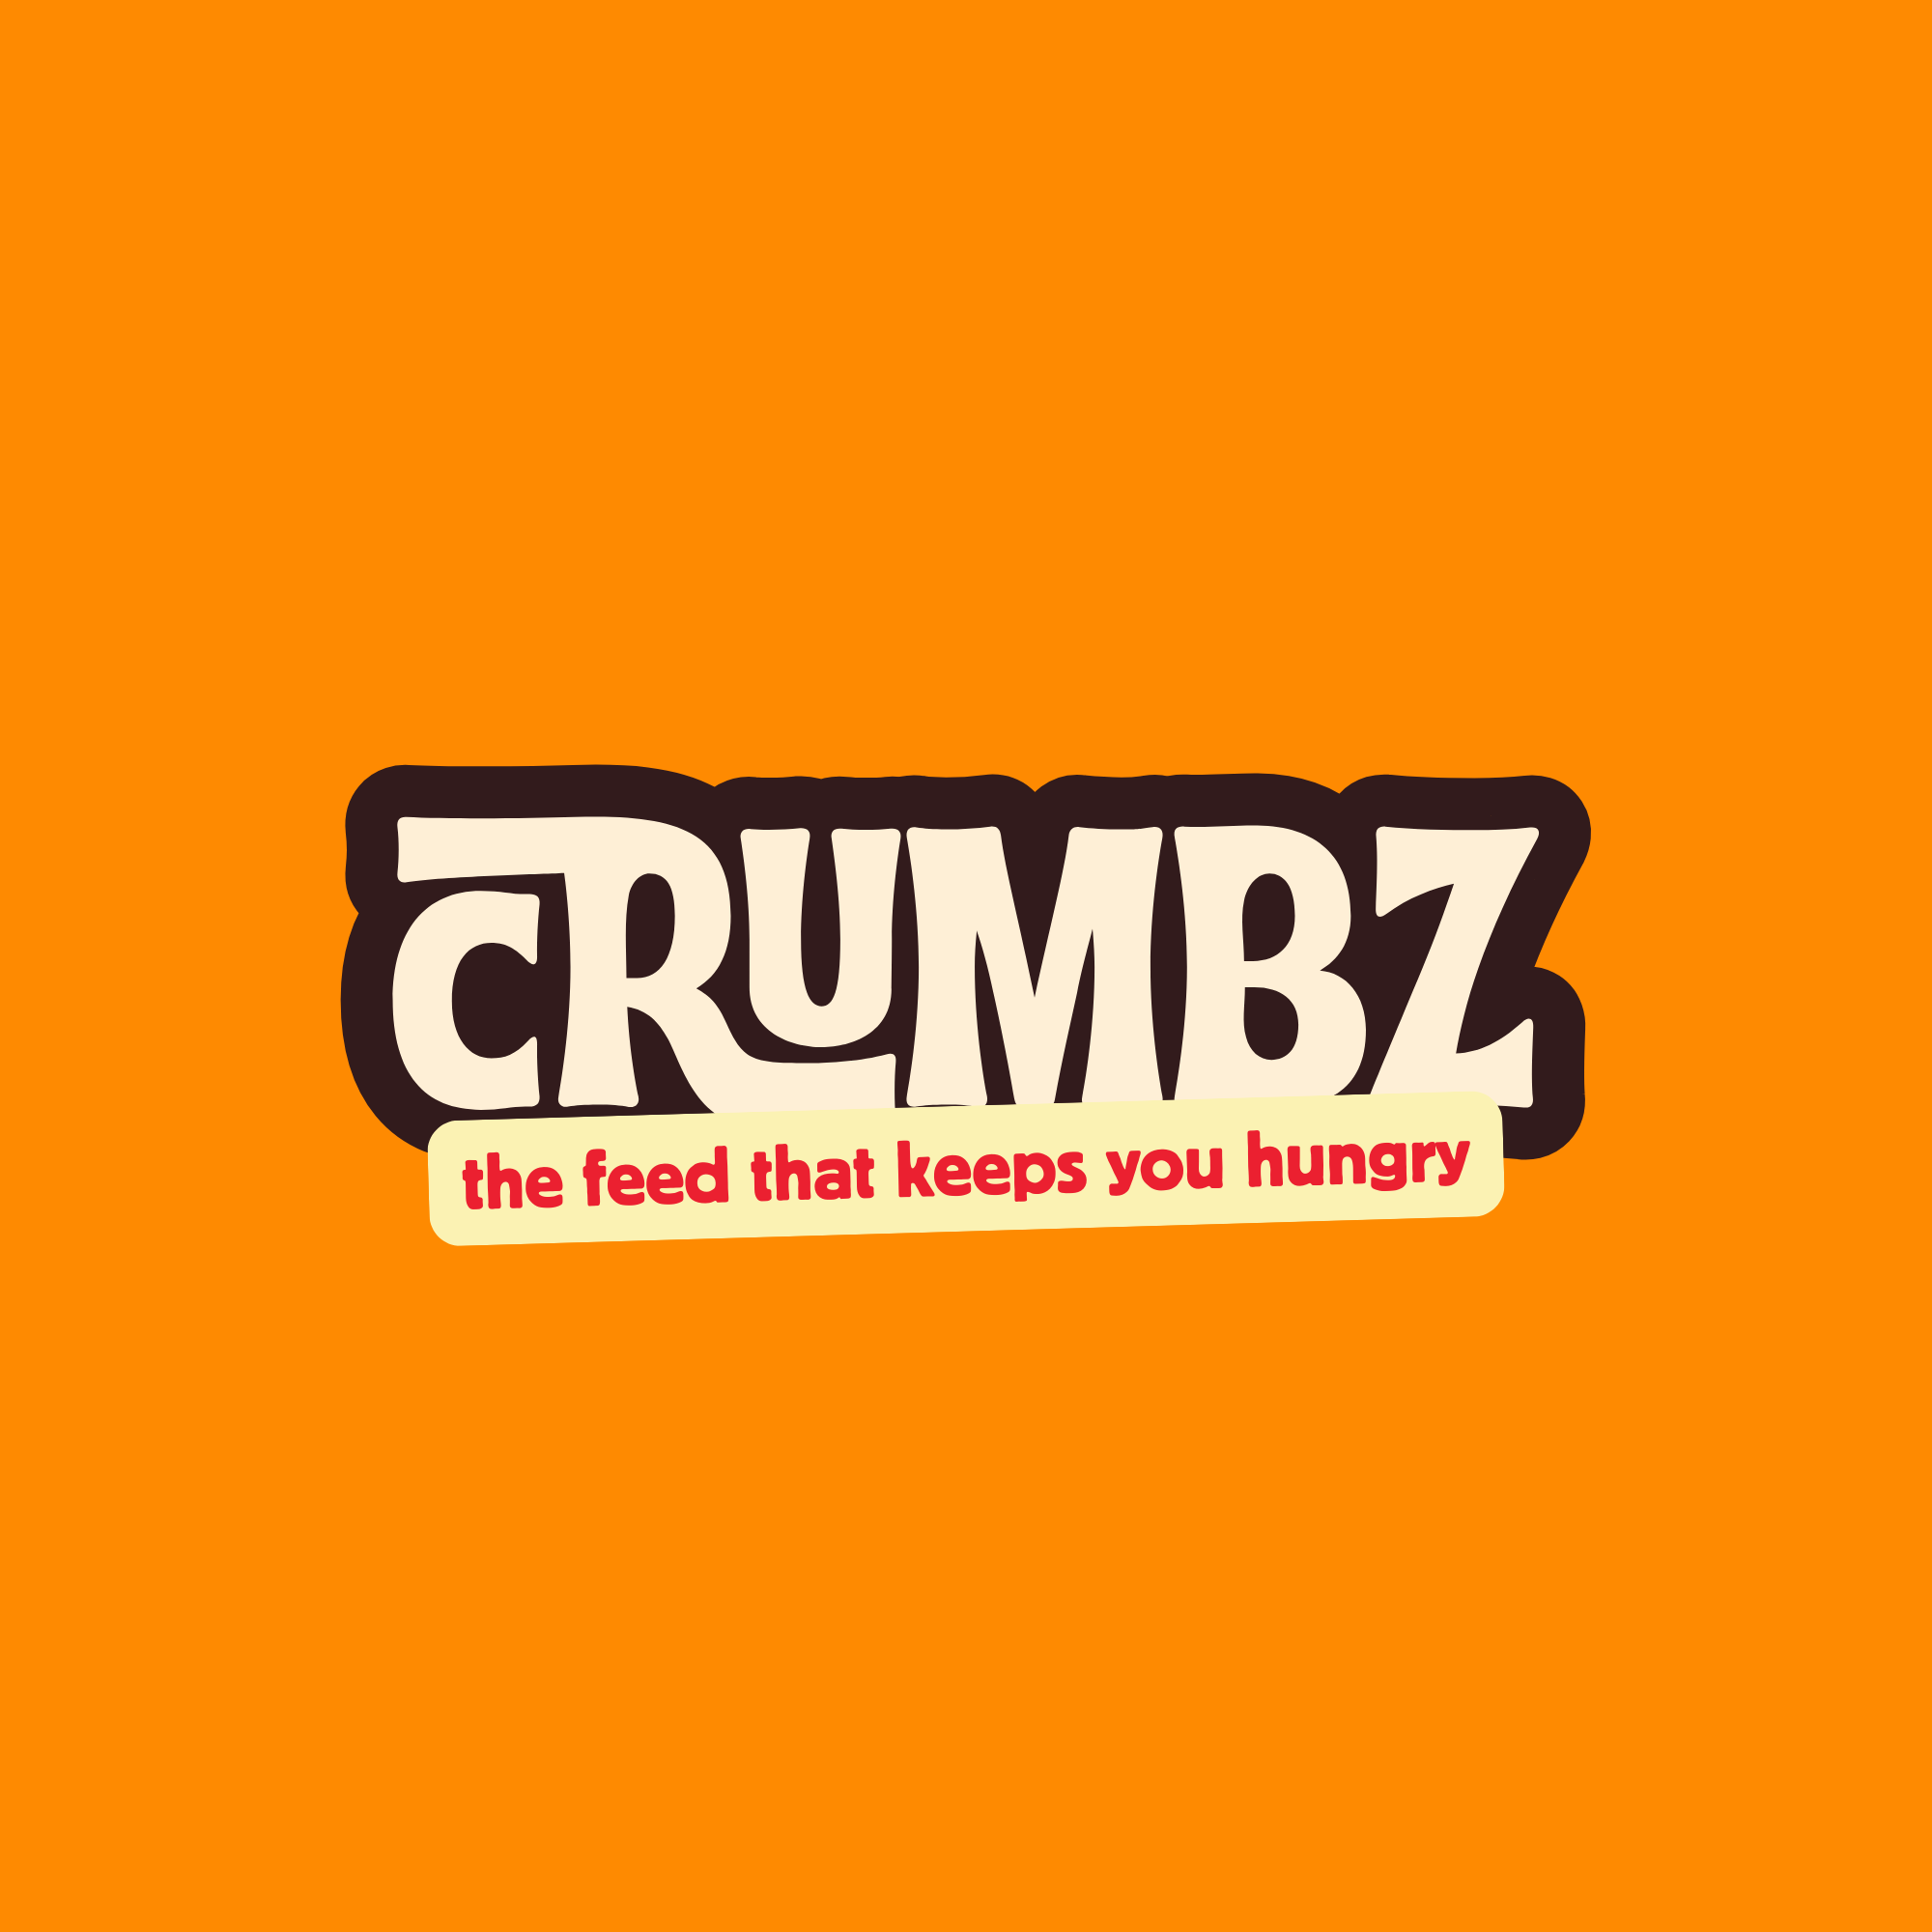
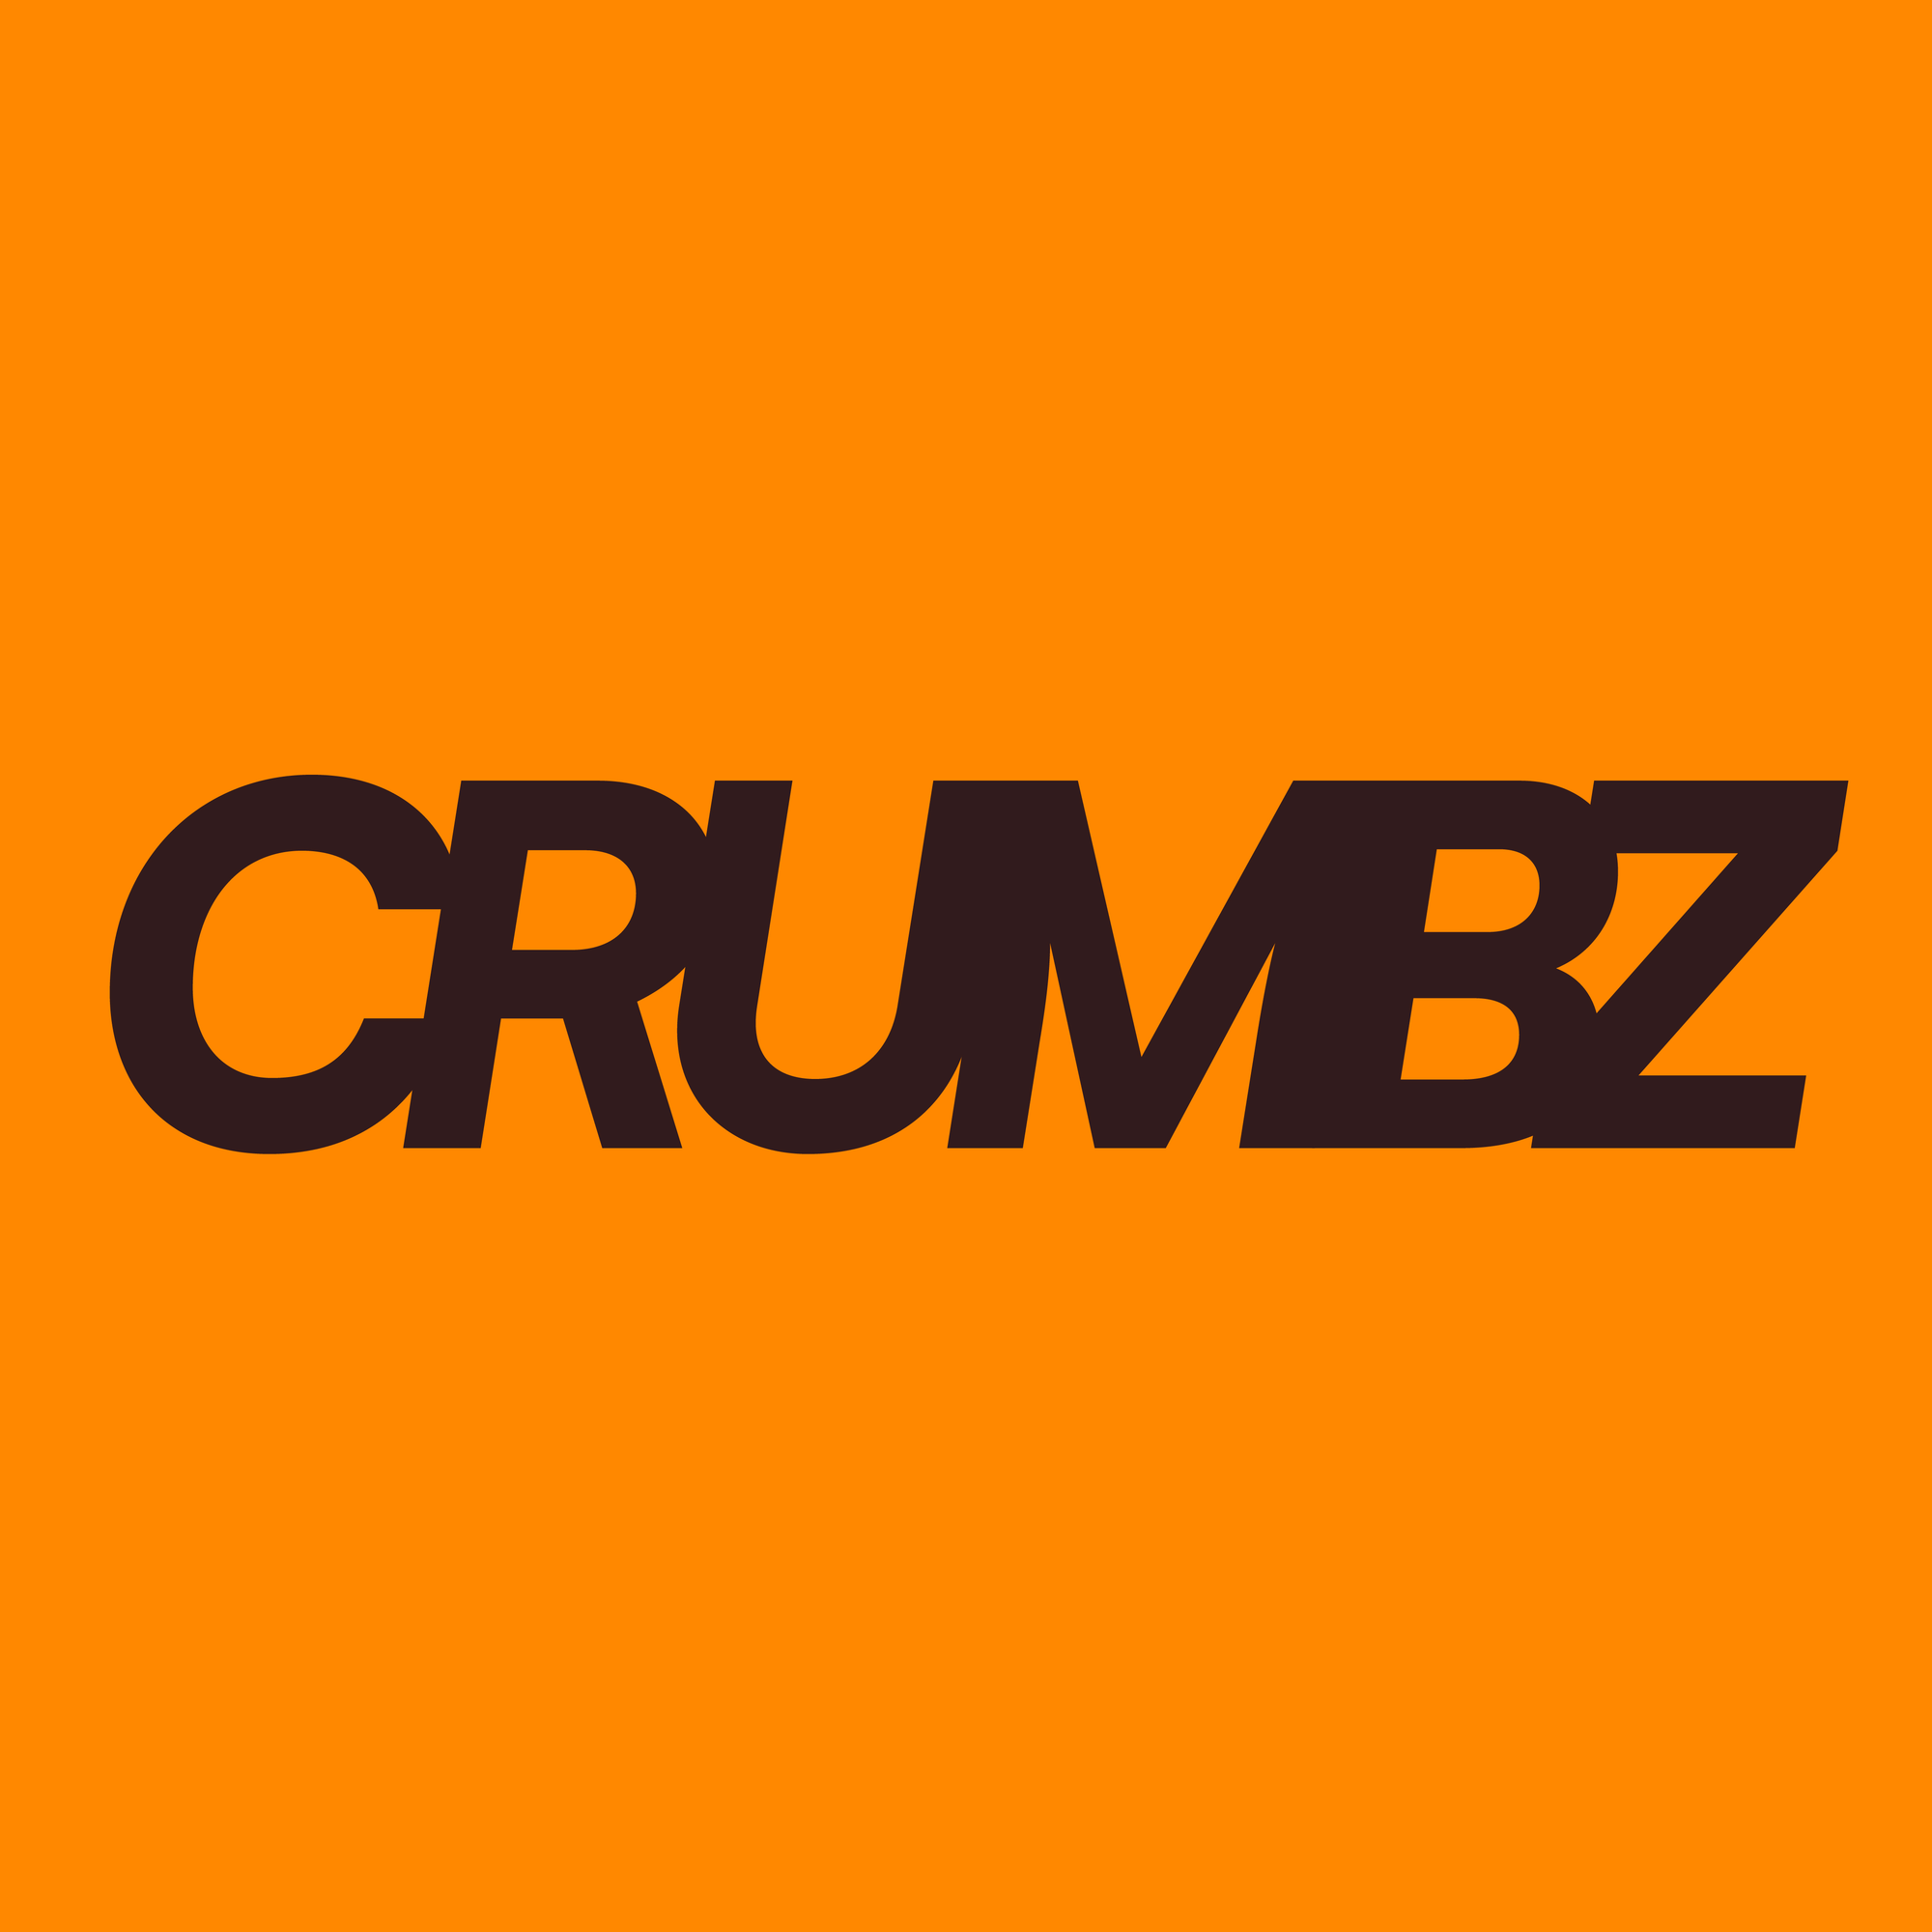
FIX

Changed region(s): [[0.031, 0.372, 0.961, 0.651]]

diff --git a/app/page.tsx b/app/page.tsx
@@ -2622,6 +2622,7 @@ export default function Page() {
   const lastManualSharedStateSyncAtRef = useRef(0);
   const seenNotifSyncTimerRef = useRef<number | null>(null);
   const recentlyDeletedPostIdsRef = useRef<Map<string, number>>(new Map());
+  const intentionalSignOutRef = useRef(false);
 
   const isAdmin = user.googleProfile?.email?.toLowerCase() === ADMIN_EMAIL;
   const liveAccount =
@@ -4746,6 +4747,8 @@ export default function Page() {
   };
 
   const resetExpiredSession = (message?: string) => {
+    if (intentionalSignOutRef.current) return;
+
     persistUser(defaultUser);
     void supabaseBrowser.auth.signOut().catch(() => undefined);
     setFullName(null);
@@ -5228,12 +5231,14 @@ export default function Page() {
 
     void supabaseBrowser.auth.getSession().then(({ data }) => {
       if (cancelled) return;
+      if (intentionalSignOutRef.current) return;
       if (!data.session && userRef.current.signedIn) {
         resetExpiredSession("sign in with google to keep going.");
       }
     });
 
     const { data: authListener } = supabaseBrowser.auth.onAuthStateChange((_event, session) => {
+      if (intentionalSignOutRef.current) return;
       if (session || !userRef.current.signedIn) return;
       resetExpiredSession("sign in with google to keep going.");
     });
@@ -6755,6 +6760,7 @@ export default function Page() {
   };
 
   const signOut = () => {
+    intentionalSignOutRef.current = true;
     const currentEmail = user.googleProfile?.email?.toLowerCase();
     const signedOutAccount = currentEmail
       ? accountsRef.current.find((account) => account.googleProfile?.email?.toLowerCase() === currentEmail) ?? null
@@ -6793,7 +6799,11 @@ export default function Page() {
     setError("");
     setAuthMode("login");
     setShowWelcomeScreen(false);
+    setNativeSplashDone(true);
     setStudentTab("feed");
+    window.setTimeout(() => {
+      intentionalSignOutRef.current = false;
+    }, 1000);
   };
 
   const addFriend = async (friendEmail: string) => {
@@ -10933,7 +10943,7 @@ export default function Page() {
                 </h1>
                 <p className="mt-2 break-all text-sm text-white/88">{user.googleProfile?.email}</p>
               </div>
-              <Button radius="full" className="shrink-0 bg-white text-[#2C1A0E]" onPress={signOut}>
+              <Button type="button" radius="full" className="shrink-0 bg-white text-[#2C1A0E]" onPress={signOut}>
                 log out
               </Button>
             </div>
@@ -12365,7 +12375,7 @@ export default function Page() {
                   <span>{copy.influencerDashboard.influencerAccessOn}</span>
                 </div>
               </div>
-              <Button radius="full" className="shrink-0 bg-white text-[#2C1A0E]" onPress={signOut}>
+              <Button type="button" radius="full" className="shrink-0 bg-white text-[#2C1A0E]" onPress={signOut}>
                 {copy.influencerDashboard.logOut}
               </Button>
             </div>
@@ -13358,7 +13368,7 @@ export default function Page() {
                       </div>
                     </div>
                   </div>
-                  <Button radius="full" variant="bordered" className="shrink-0 border-[#2C1A0E] text-[#2C1A0E]" onPress={signOut}>
+                  <Button type="button" radius="full" variant="bordered" className="shrink-0 border-[#2C1A0E] text-[#2C1A0E]" onPress={signOut}>
                     log out
                   </Button>
                 </div>